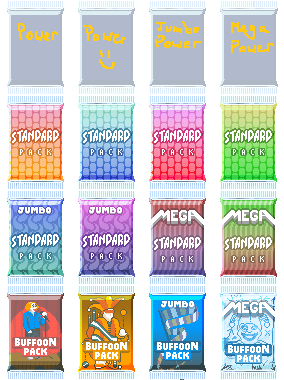
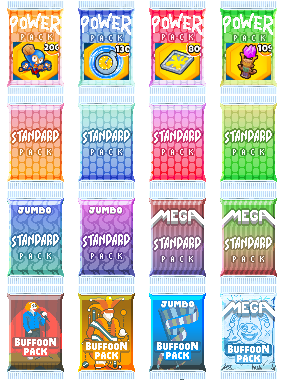
v0.2.3 powers + packs + art

diff --git a/README.md b/README.md
@@ -3,3 +3,6 @@
 A Balatro mod that incorporates Bloons Tower Defense into the base game
 
 Includes 100 new Jokers, 12 new Decks, and more!
+
+Added Power cards and Power packs!
+Similar to Spectrals, they cannot be found in the shop outside of their booster packs, but are added to your consumables instead of being used immediately. They provide powerful but temporary benefits to your run.
